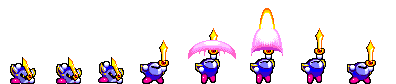
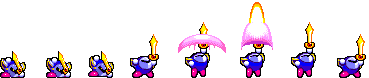
Add_Upper,Drop, Falling attack

diff --git a/player_MetaKnight.py b/player_MetaKnight.py
@@ -22,6 +22,8 @@ ATTACK_PER_TIME = 1.0 / TIME_PER_ATTACK
 FRAMES_PER_ATTACK = 8      # 일반 공격 동작 속도
 FRAMES_PER_FAST_ATTACK = 10 # 빠른 공격 동작 속도 더 빠르게
 FRAMES_PER_CHARGE_ATTACK = 10
+FRAMES_PER_DROP_ATTACK = 12
+FRAMES_PER_FALLING_ATTACK = 5
 
 
 #walking_focus = [[3, 58], [3, 66], [10, 66], [15, 50], [6, 50], [3, 66], [5, 66]]
@@ -29,6 +31,9 @@ Normal_Attack_focus = [[110, 50],[220,60],[325, 75],[425,110], [425,110]]
 Speed_Attack_focus = [[2, 50, 485], [2, 50, 485], [755, 110, 480], [2, 100, 405],[110,100,400]]
 Charge_Attack_focus = [[2, 50],[110, 50],[220,60],[325, 75],[425,110], [425,110],[540, 100],[540, 100],[540, 100],[645,110]]
 Defense_focus = [[445, 30, 340],[498, 35, 340], [540, 35, 340], [592, 42, 330], [636, 42, 340], [0, 50, 210], [50, 50, 210], [113, 50, 210], [163, 50, 210]]
+Drop_attack_focus = [[0, 28], [48, 26], [96, 26], [136, 28], [188, 27], [242, 30], [290, 37],[355, 27], [405, 27]]
+Falling_attack_focus = [[0, 33], [55,32], [112, 34], [166, 37], [227, 33], [284, 33], [339, 32], [396, 34], [451, 32], [509, 32]]
+Faf_player_location = [[0,0], [-15, -15], [-25, 0], [0, -5], [-25, -15], [0,0], [-15, -15], [-25, 0], [0,0], [0,0]]
 
 
 
@@ -62,7 +67,6 @@ def Time_Out(e):
 def Normal_Attack_Down(e):
     return e[0] == 'INPUT' and e[1].type == SDL_KEYDOWN and (e[1].key == SDLK_f or e[1].key == SDLK_PERIOD)
 
-
 def RUN(e):
     return e[0] == 'RUN'
 
@@ -86,14 +90,28 @@ def Charge_Attack_Up(e):
     return e[0] == 'INPUT' and e[1].type == SDL_KEYUP and (e[1].key == SDLK_q or e[1].key == SDLK_SLASH)
 
 
+#Air Command
+
+def Upper_Attack_DOWN(e):
+    return (e[0] == 'INPUT' and e[1].type == SDL_KEYDOWN and (e[1].key == SDLK_f or e[1].key == SDLK_PERIOD)
+            and e[2] == "Air_Up")
+
+def Drop_Attack_DOWN(e):
+    return (e[0] == 'INPUT' and e[1].type == SDL_KEYDOWN and (e[1].key == SDLK_f or e[1].key == SDLK_PERIOD)
+            and e[2] == "Air_Down")
+
+def Falling_Attack_DOWN(e):
+    return (e[0] == 'INPUT' and e[1].type == SDL_KEYDOWN and (e[1].key == SDLK_q or e[1].key == SDLK_SLASH)
+            and (e[2] == "Air_Up" or e[2] == "Air_Down"))
+
 #reforged_frame
 
 #start_x, width
 Walk_focus = [[2,39], [51,36], [100, 34], [149, 37], [203, 36], [258, 40], [316, 41], [377, 38] ]
 Run_focus = [[7,25], [59,23], [100, 34], [147, 23], [189, 23] ]
-
-
 Fly_focus = [[3, 58], [3, 66], [10, 66], [15, 50], [6, 50], [3, 66], [5, 66]]
+Jump_focus = [[9, 32],[57, 27], [101, 28], [143, 26], [187, 26], [230, 26], [274, 27], [315, 27], [357, 28], [401, 32]]
+Upper_attack_focus = [[130, 29], [178, 48], [240, 33], [291, 25], [337, 29] ]
 
 
 
@@ -244,8 +262,8 @@ class Run:
 class Jump:
     @staticmethod
     def enter(p1, e):
-        if  p1.state_machine.last_state != Jump:
-            p1.jump_value = 10
+        if  p1.state_machine.last_state != Jump and p1.state_machine.last_state != Falling_Attack:
+            p1.jump_value = 20
             p1.frame = (p1.frame + FRAMES_PER_ACTION * ACTION_PER_TIME * game_framework.frame_time) % 7 #10
         else: # 점프 도중에 새로운 입력을 받는 경우
             if Right_Move_Down(e):
@@ -271,6 +289,7 @@ class Jump:
 
     @staticmethod
     def exit(p1, e):
+        #p1.jump_value = 0
         pass
 
 
@@ -295,7 +314,7 @@ class Jump:
 
         # 점프: y값 변경
         p1.y += p1.jump_value
-        p1.jump_value -= 0.1
+        p1.jump_value -= 1
         if p1.y <= 150:  # 나중엔 충돌 체크로 바꿀 것
             p1.y = 150
             p1.state_machine.handle_event(('STOP', 0))
@@ -318,7 +337,7 @@ class Jump:
             p1.jump_image.clip_composite_draw(p_start_x, p_start_y, p_width, p_height, 0, 'h', p1.x, p1.y, p_width * 2, p_height * 2)
 
 
-Jump_focus = [[9, 32],[57, 27], [101, 28], [143, 26], [187, 26], [230, 26], [274, 27], [315, 27], [357, 28], [401, 32]]
+
 
 class Normal_Attack:
 
@@ -455,6 +474,118 @@ class Charge_Attack:
             p1.font.draw(p1.x - 10, p1.y + 50, f'{p1.Charging_Point:02d}', (255, 255, 0))
 
 
+
+class Upper_Attack:
+    @staticmethod
+    def enter(p1, e):
+        p1.frame = 0
+
+    @staticmethod
+    def exit(p1, e):
+        pass
+
+    @staticmethod
+    def do(p1):
+        p1.y += 3
+        p1.jump_value -= 0.5
+        p1.Attacking = True
+        p1.frame = (p1.frame + FRAMES_PER_ATTACK * ACTION_PER_TIME * game_framework.frame_time) % 6
+        if int(p1.frame) == 5:
+            p1.Attacking = False
+            p1.state_machine.handle_event(('STOP', 0))
+
+    @staticmethod
+    def draw(p1):
+        frame = int(p1.frame)
+        p_size_x = Upper_attack_focus[frame][1]
+        p_size_y = 78
+        if p1.dir == 1:
+            p1.upper_attack_image.clip_draw(Upper_attack_focus[frame][0], 0, p_size_x, p_size_y, p1.x, p1.y,
+                                        p_size_x * 2, p_size_y * 2)
+
+        elif p1.dir == -1:
+            p1.upper_attack_image.clip_composite_draw(Upper_attack_focus[frame][0], 0, p_size_x, p_size_y, 0, 'h',
+                                        p1.x, p1.y, p_size_x * 2, p_size_y * 2)
+
+
+class Drop_Attack:
+    @staticmethod
+    def enter(p1, e):
+        p1.frame = 0
+
+    @staticmethod
+    def exit(p1, e):
+        pass
+
+    @staticmethod
+    def do(p1):
+
+        p1.Attacking = True
+        if int(p1.frame) != 8:
+            #p1.y += p1.jump_value
+            #p1.jump_value -= 0.5
+            p1.frame = (p1.frame + FRAMES_PER_DROP_ATTACK * ACTION_PER_TIME * game_framework.frame_time) % 9
+        else:
+            p1.y += p1.jump_value
+            p1.jump_value -= 1
+
+        if p1.y <= 150:
+            p1.Attacking = False
+            p1.y = 150
+            p1.state_machine.handle_event(('STOP', 0))
+
+
+
+    @staticmethod
+    def draw(p1):
+        frame = int(p1.frame)
+        p_size_x = Drop_attack_focus[frame][1]
+        p_size_y = 46
+        if p1.dir == 1:
+            p1.drop_attack_image.clip_draw(Drop_attack_focus[frame][0], 0, p_size_x, p_size_y, p1.x, p1.y,
+                                            p_size_x * 2, p_size_y * 2)
+
+        elif p1.dir == -1:
+            p1.drop_attack_image.clip_composite_draw(Drop_attack_focus[frame][0], 0, p_size_x, p_size_y, 0, 'h',
+                                                      p1.x, p1.y, p_size_x * 2, p_size_y * 2)
+
+class Falling_Attack:
+    @staticmethod
+    def enter(p1, e):
+        p1.frame = 0
+
+    @staticmethod
+    def exit(p1, e):
+        pass
+
+    @staticmethod
+    def do(p1):
+
+        p1.Attacking = True
+        if int(p1.frame) != 9:
+            p1.y += p1.jump_value/10
+            p1.jump_value -= 0.1
+            p1.frame = (p1.frame + FRAMES_PER_FALLING_ATTACK * ACTION_PER_TIME * game_framework.frame_time) % 10
+        else:
+            p1.state_machine.handle_event(('STOP', 0))
+
+    @staticmethod
+    def draw(p1):
+        frame = int(p1.frame)
+        p_size_x = Falling_attack_focus[frame][1]
+        p_size_y = 40
+        p_x = p1.x + Faf_player_location[frame][0] * p1.dir
+        p_y = p1.y + Faf_player_location[frame][1]
+        if p1.dir == 1:
+            p1.falling_attack_image.clip_draw(Falling_attack_focus[frame][0], 0, p_size_x, p_size_y, p_x, p_y,
+                                            p_size_x * 2, p_size_y * 2)
+        elif p1.dir == -1:
+            p1.falling_attack_image.clip_composite_draw(Falling_attack_focus[frame][0], 0, p_size_x, p_size_y, 0, 'h',
+                                                        p_x, p_y, p_size_x * 2, p_size_y * 2)
+
+
+
+
 class Defense:
 
     @staticmethod
@@ -515,16 +646,17 @@ class StateMachine:
                    Defense_Down: Defense, Jump_Button_Down: Jump},
 
             Walk: { Right_Move_Down: Idle, Left_Move_Down: Idle, Right_Move_Up: Idle, Left_Move_Up: Idle,
-                  Normal_Attack_Down: Normal_Attack, Fast_Attack_Down: Speed_Attack, Charge_Attack_Down: Charge_Attack,
-                  Defense_Down: Defense, STOP: Idle, RUN: Run, Jump_Button_Down: Jump},
+                   Normal_Attack_Down: Normal_Attack, Fast_Attack_Down: Speed_Attack, Charge_Attack_Down: Charge_Attack,
+                   Defense_Down: Defense, STOP: Idle, RUN: Run, Jump_Button_Down: Jump, },
 
             Run: {Right_Move_Down: Idle, Left_Move_Down: Idle, Right_Move_Up: Idle, Left_Move_Up: Idle,
                   Normal_Attack_Down: Normal_Attack, Fast_Attack_Down: Speed_Attack, Charge_Attack_Down: Charge_Attack,
-                  Defense_Down: Defense, STOP: Idle , Jump_Button_Down: Jump},
+                  Defense_Down: Defense, STOP: Idle, Jump_Button_Down: Jump},
 
-            Jump: {STOP: Walk,  Right_Move_Down: Jump, Left_Move_Down: Jump, Right_Move_Up: Jump, Left_Move_Up: Jump,},
+            Jump: {STOP: Walk,  Right_Move_Down: Jump, Left_Move_Down: Jump, Right_Move_Up: Jump, Left_Move_Up: Jump,
+                   Upper_Attack_DOWN: Upper_Attack, Drop_Attack_DOWN: Drop_Attack, Falling_Attack_DOWN: Falling_Attack },
 
-#            Fly: {},
+            #Fly: {},
 
 
             Normal_Attack: {STOP: Walk, Right_Move_Down: Walk, Left_Move_Down: Walk, Right_Move_Up: Walk, Left_Move_Up: Walk},
@@ -534,7 +666,13 @@ class StateMachine:
             Charge_Attack: {Charge_Attack_Up: Charge_Attack, STOP: Walk,
                             Right_Move_Down: Charge_Attack, Left_Move_Down: Charge_Attack, Right_Move_Up: Charge_Attack, Left_Move_Up: Charge_Attack},
 
-            Defense: { Defense_Up: Idle, STOP: Idle, }#STOP: Walk,
+            Upper_Attack: {STOP: Jump, },
+
+            Drop_Attack: { STOP: Idle, },
+
+            Falling_Attack: {STOP: Jump, },
+
+            Defense: { Defense_Up: Idle, STOP: Idle, }
 
 
         }
@@ -589,6 +727,9 @@ class MetaKnight:
         self.walk_image = load_image('resource/Meta_Knight_Walk.png')
         self.run_image = load_image('resource/Meta_Knight_Run.png')
         self.jump_image = load_image('resource/Meta_Knight_Jump.png')
+        self.upper_attack_image = load_image('resource/Meta_Knight_Upper_Attack.png')
+        self.drop_attack_image = load_image('resource/Meta_Knight_Air_Attack.png')
+        self.falling_attack_image = load_image('resource/Meta_Knight_Air_Hard_Attack.png')
         self.state_machine = StateMachine(self)
         self.state_machine.start()
 
@@ -596,7 +737,15 @@ class MetaKnight:
         self.state_machine.update()
 
     def handle_event(self, event):
-        self.state_machine.handle_event(('INPUT', event))
+        if self.jump_value > 0:
+            self.state_machine.handle_event(('INPUT', event, "Air_Up"))
+            print("command in air")
+        elif self.jump_value < 0:
+            self.state_machine.handle_event(('INPUT', event, "Air_Down"))
+            print("command in air")
+        else:
+            self.state_machine.handle_event(('INPUT', event, "Ground"))
+            print("command on ground")
 
     def draw(self):
         self.state_machine.draw()

diff --git a/Character_Select_mode.py b/Character_Select_mode.py
@@ -17,8 +17,8 @@ class P1_Controller:
     def __init__(self):
         self.x1, self.y1 = 350, 150
         self.x2, self.y2 = 650, 150
-        self.P1 = 0
-        self.P2 = 0
+        self.P1 = 1
+        self.P2 = 1
         self.frame_k = 0
         self.frame_m = 0
         self.Select = 0
